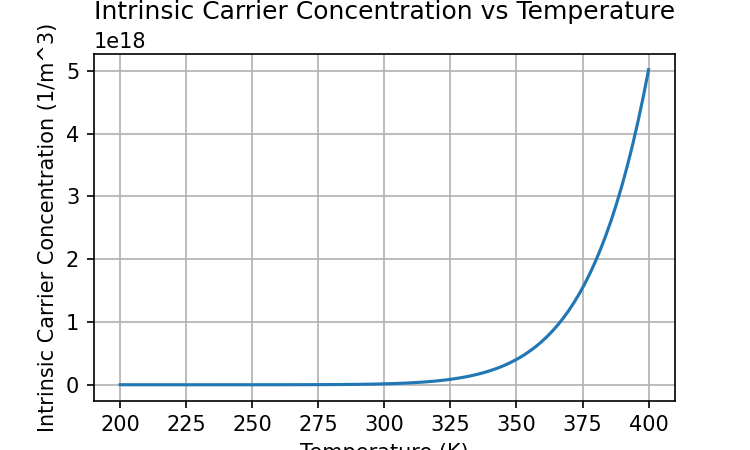
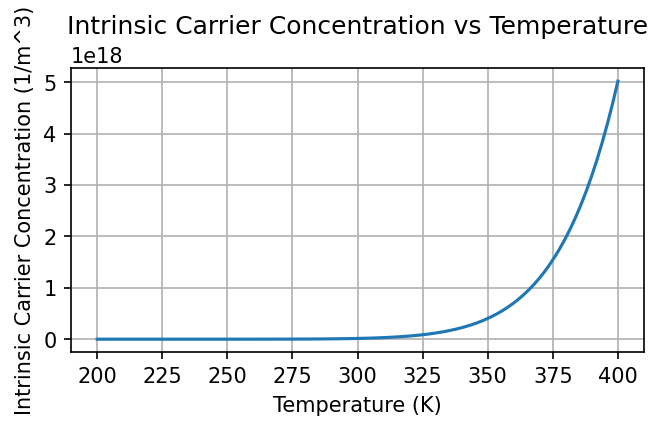
Reduce simulation image size for cleaner README

Changed region(s): [[0.0, 0.0, 0.9955, 1.0]]

diff --git a/examples/cv_simulations.py b/examples/cv_simulations.py
@@ -23,7 +23,7 @@ for phi in phi_s:
     C_total.append(C)
 
 # Plot
-plt.figure(figsize=(5,3))
+plt.figure(figsize=(4.5,3))
 plt.plot(phi_s, C_total)
 plt.xlabel("Surface Potential (V)")
 plt.ylabel("Capacitance (F)")
@@ -31,6 +31,7 @@ plt.title("MOS Capacitor C–V Curve (Simplified)")
 plt.grid()
 
 # Save figure
-plt.savefig("figures/cv_curve.png", dpi=150)
+plt.tight_layout()
+plt.savefig("figures/cv_curve.png", dpi=150, bbox_inches="tight")
 
 plt.show()

diff --git a/examples/cv_temperature.py b/examples/cv_temperature.py
@@ -21,7 +21,7 @@ temperatures = [200, 300, 400]
 # Surface potential sweep
 phi_s = np.linspace(0.01, 0.6, 100)
 
-plt.figure(figsize=(5,3))
+plt.figure(figsize=(4.5,3))
 
 for T in temperatures:
 
@@ -55,7 +55,8 @@ os.makedirs(FIG_DIR, exist_ok=True)
 
 
 # Save figure
-plt.savefig(os.path.join(FIG_DIR, "cv_temperature.png"), dpi=150)
+plt.tight_layout()
+plt.savefig(os.path.join(FIG_DIR, "cv_temperature.png"), dpi=150, bbox_inches="tight")
 
 
 plt.show()

diff --git a/examples/plot_intrinsic_carrier.py b/examples/plot_intrinsic_carrier.py
@@ -11,7 +11,7 @@ T = np.linspace(200, 400, 100)
 ni = [intrinsic_carrier_concentration(t) for t in T]
 
 # Plot
-plt.figure(figsize=(5,3))
+plt.figure(figsize=(4.5,3))
 plt.plot(T, ni)
 plt.xlabel("Temperature (K)")
 plt.ylabel("Intrinsic Carrier Concentration (1/m^3)")
@@ -25,6 +25,7 @@ FIG_DIR = os.path.join(BASE_DIR, "figures")
 os.makedirs(FIG_DIR, exist_ok=True)
 
 # Save figure
-plt.savefig(os.path.join(FIG_DIR, "intrinsic_carrier.png"), dpi=150)
+plt.tight_layout()
+plt.savefig(os.path.join(FIG_DIR, "intrinsic_carrier.png"), dpi=150, bbox_inches="tight")
 
 plt.show()